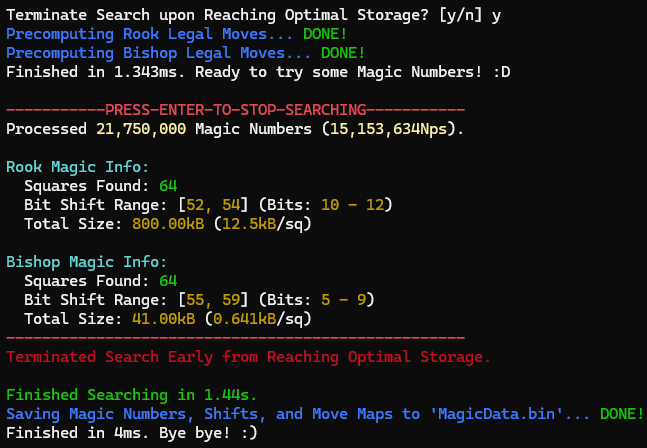
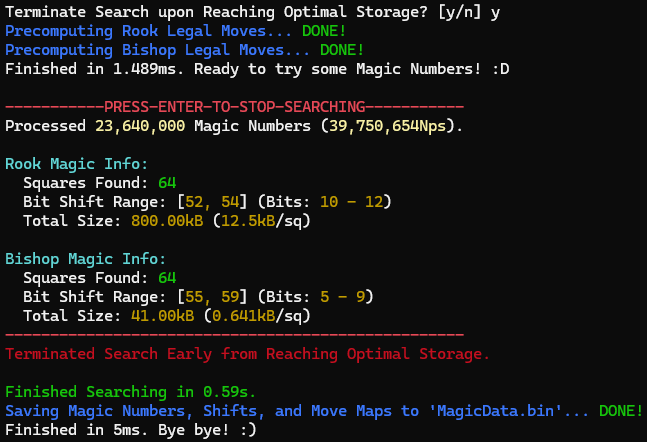
Updated to Release Version

diff --git a/README.md b/README.md
@@ -7,7 +7,7 @@
 
 ---
 
-A lightweight tool built to brute-force search and pre-compute the **magic numbers** used for a chess computer's 'fancy magic' bitboard move generation (specifically, sliding pieces such as rooks, bishops, and queens). Heavily optimised with multithreading, generational and perfect collision resolution, and a hand-written RNG, allowing the program to find the known 'fancy magic' **theoretical optimal** size in **under 1.5s**.  
+A lightweight tool built to brute-force search and pre-compute the **magic numbers** used for a chess computer's 'fancy magic' bitboard move generation (specifically, sliding pieces such as rooks, bishops, and queens). Heavily optimised with multithreading, generational and perfect collision resolution, and a hand-written RNG, allowing the program to find the known 'fancy magic' **theoretical optimal** size in **under 0.6s**.  
 Rather than traditional ray-casting methods, where a sliding piece's legal moves are generated via 4 for-loops in each direction (stopping once we reach a piece, or the edge of the board), 'magic' move generation **pre-computes** a massive **hashed lookup table** of all the pseudo-legal moves each of the sliding pieces can make (given a key, that being the bitmap of other pieces that lie in the sliding piece's rays), that can be retrieved in O(1). This program performs its own multithreaded search **from scratch**, continuously hunting for smaller and smaller perfect-hashing tables via a live, colour-coded terminal dashboard, before exporting the final results as a compact binary file.
 
 The program outputs a serialised binary file (at the executable path) containing two arrays of 'MagicInfo' structures (see source code for more details), the first for rooks and the second for bishops. This structure is in the following format:
@@ -35,7 +35,7 @@ This project is written primarily in VB.NET as a Visual Studio console applicati
 ✅ Full ray-casting pre-computed move generation for both rooks and bishops (for efficient lookups during magic number generation).  
 ✅ From-scratch derivation of each square's "relevant occupancy" mask (the 'key' as mentioned earlier, containing possible blocking piece locations), taking care to exclude edge squares and pairing of all 2^n subsets with their resulting legal-move bitboard.  
 ✅ Hand-written 'Xoshiro256' PRNG (SplitMix64-seeded for a well-distributed initial state) for each thread to avoid correlation.  
-✅ Ultra-fast generation and processing (~18M per second) of magic numbers, finding the fancy optimal storage solution in under 1.5s (800kB of storage for rook moves, 41kB for bishop moves).  
+✅ Ultra-fast generation and processing (~48M per second) of magic numbers, finding the fancy optimal storage solution in under 0.6s (800kB of storage for rook moves, 41kB for bishop moves).  
 ✅ Parsing of ill-fit magic number candidates immediately upon generation (producing sparse numbers whilst rejecting whose with few set bits).  
 ✅ 'Greedy shrink' searching strategy, tightening the shift value by 1 bit immediately upon spotting a collision-free magic/shift pairing for some square.  
 ✅ 'Generation-stamped' collision resolutions: stores a time-stamp for each hashed value, allowing stale entries to be safely overwritten instead of restarting the search.  
@@ -49,7 +49,7 @@ This project is written primarily in VB.NET as a Visual Studio console applicati
 
 ## Project Showcase
 
-> **Project Demo:** You can see this project live directly through the [**project build**](https://drive.google.com/open?id=1XNjrBzgGa3Rgt-1cntzvTwKjdx_Q30mW&u) (Intel 32/64-bit). Simply click the 'Download All' button in the link attached, unzip and run the "Magic-Generator.exe" application.
+> **Project Demo:** You can see this project live directly through the [**project build**](https://drive.google.com/open?id=1XNjrBzgGa3Rgt-1cntzvTwKjdx_Q30mW&u) (64-bit). Simply click the 'Download All' button in the link attached, unzip and run the "Magic-Generator.exe" application.
 
 > **Program Controls:**
 >1) Immediately on launch, choose whether to automatically stop searching once both the rook and bishop tables reach their known theoretical-optimal size (`Y`), or keep searching indefinitely for further improvements (until manually stopped) (`N`). The program will then instantly pre-compute all rook & bishop move and blocker masks for all 64 squares.
@@ -66,13 +66,13 @@ For each square, we construct a bitboard called the relevant occupancy mask, whi
 
 This forms the algorithm to efficiently store all legal moves: for each square, we start with a massive array and test thousands of randomly-generated magic numbers such that every occupancy mask for that cell has a unique entry. Once we have an injective map, we shrink the array by a factor of two (or rather, incrementing the number we right-shift by) and keep searching for magic numbers, until we hit a dead end. 'Fancy' magic bitboards improve on this concept by allocating a shift value for each square (rather than a global value): this allows for pieces which have few legal moves (eg: a bishop trapped on a1, vs a rook on e5) to have their moves much more efficiently stored, meaning our pre-computed tables fit effortlessly into L2 CPU cache.
 
-The known theoretical limit for how tightly we can pack our array is by using a 2^12 array for the rook, and a 2^9 array for the bishop (giving table sizes of 800kB and 41kB respectively). My program is able to find this optimal solution in under **1.5s** of searching.
+The known theoretical limit for how tightly we can pack our array is by using a 2^12 array for the rook, and a 2^9 array for the bishop (giving table sizes of 800kB and 41kB respectively). My program is able to find this optimal solution in under **0.6s** of searching.
 
 ---
 
 ## Installation and Folder Structure
 
-### Required Software: Visual Studio (.NET 8.0).
+### Required Software: Visual Studio (.NET 8.0, x64).
 
 To install, simply clone this repository using the following terminal prompts.
 ```bash
